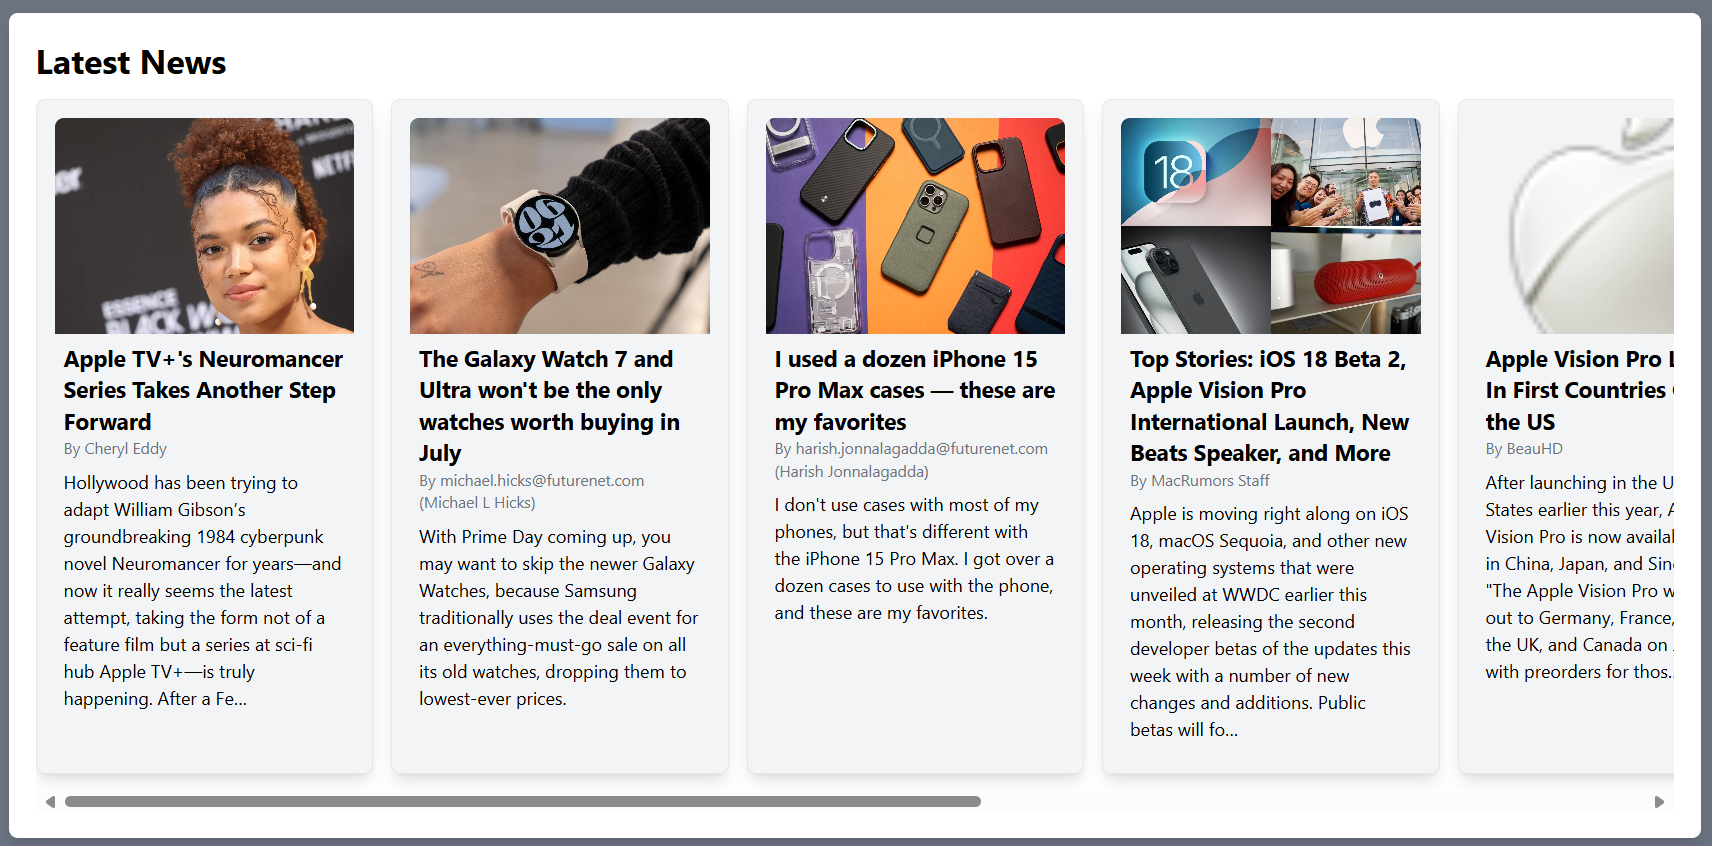
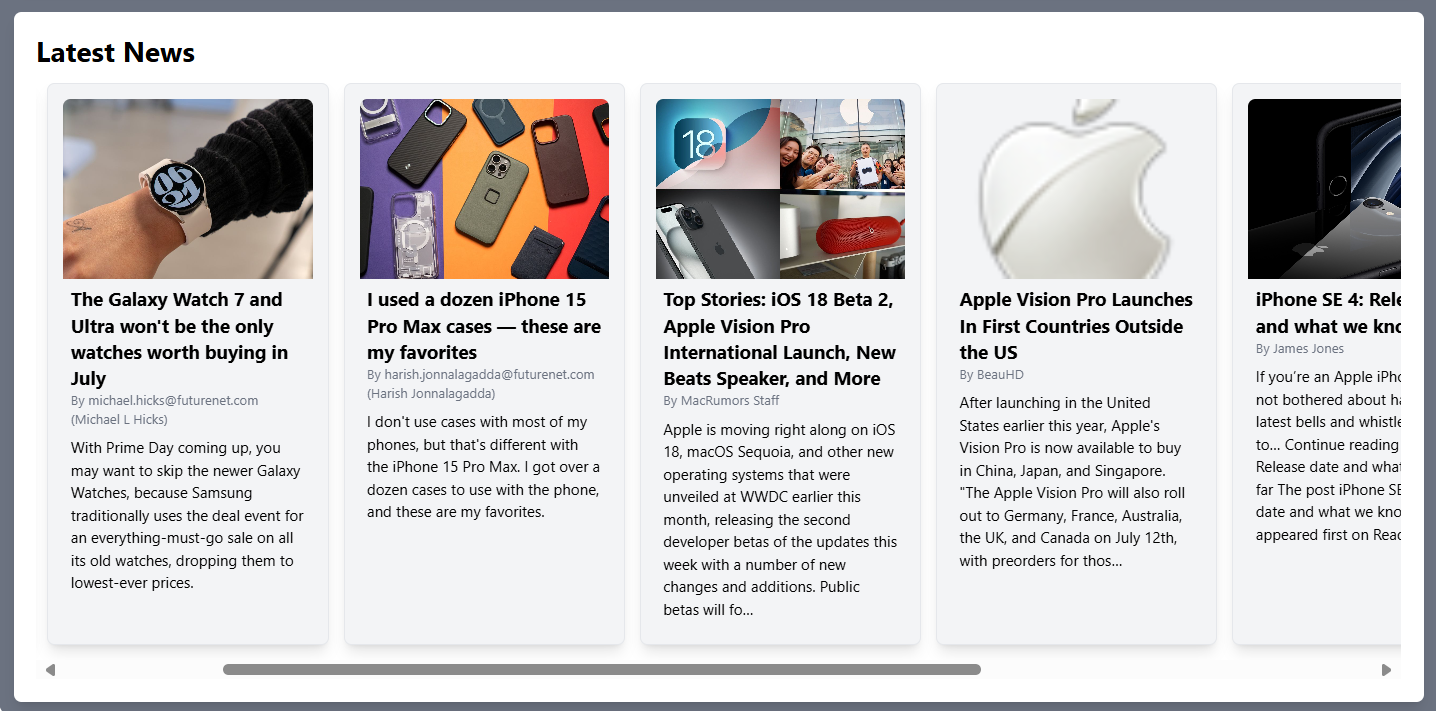
Minor Change

diff --git a/src/api/newsApi.js b/src/api/newsApi.js
@@ -19,22 +19,22 @@ export const fetchNews = async () => {
 
   // Used for mocking in development
   return [
-    {
-      source: {
-        id: null,
-        name: "Gizmodo.com",
-      },
-      author: "Cheryl Eddy",
-      title: "Apple TV+'s Neuromancer Series Takes Another Step Forward",
-      description:
-        "Hollywood has been trying to adapt William Gibson’s groundbreaking 1984 cyberpunk novel Neuromancer for years—and now it really seems the latest attempt, taking the form not of a feature film but a series at sci-fi hub Apple TV+—is truly happening. After a Fe…",
-      url: "https://gizmodo.com/neuromancer-appletv-series-casts-briana-middleton-scifi-1851567254",
-      urlToImage:
-        "https://i.kinja-img.com/image/upload/c_fill,h_675,pg_1,q_80,w_1200/c9f2dac50362707852d4e567f42b6e58.jpg",
-      publishedAt: "2024-06-29T14:00:00Z",
-      content:
-        "Hollywood has been trying to adaptWilliam Gibsons groundbreaking 1984 cyberpunk novel Neuromancer for yearsand now it really seems the latest attempt, taking the form not of a feature film but a seri… [+1604 chars]",
-    },
+    // {
+    //   source: {
+    //     id: null,
+    //     name: "Gizmodo.com",
+    //   },
+    //   author: "Cheryl Eddy",
+    //   title: "Apple TV+'s Neuromancer Series Takes Another Step Forward",
+    //   description:
+    //     "Hollywood has been trying to adapt William Gibson’s groundbreaking 1984 cyberpunk novel Neuromancer for years—and now it really seems the latest attempt, taking the form not of a feature film but a series at sci-fi hub Apple TV+—is truly happening. After a Fe…",
+    //   url: "https://gizmodo.com/neuromancer-appletv-series-casts-briana-middleton-scifi-1851567254",
+    //   urlToImage:
+    //     "https://i.kinja-img.com/image/upload/c_fill,h_675,pg_1,q_80,w_1200/c9f2dac50362707852d4e567f42b6e58.jpg",
+    //   publishedAt: "2024-06-29T14:00:00Z",
+    //   content:
+    //     "Hollywood has been trying to adaptWilliam Gibsons groundbreaking 1984 cyberpunk novel Neuromancer for yearsand now it really seems the latest attempt, taking the form not of a feature film but a seri… [+1604 chars]",
+    // },
     {
       source: {
         id: null,
